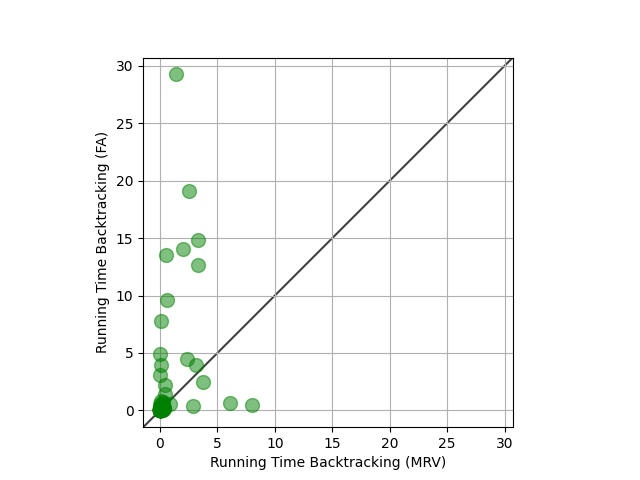
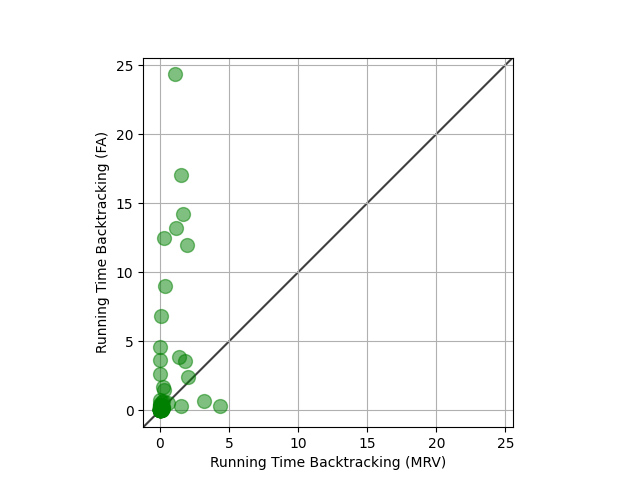
Project completed - Sudoku solved

diff --git a/a.py b/a.py
@@ -1,0 +1,17 @@
+MRV = [0.0059967041015625, 0.018075942993164062, 0.02026844024658203, 1.5325396060943604, 0.25562405586242676, 4.3149309158325195, 1.4929351806640625, 0.020865440368652344, 1.1535844802856445, 1.9811089038848877, 0.2930121421813965, 0.007530689239501953, 0.05863761901855469, 0.5441675186157227, 0.04373955726623535, 0.24484586715698242, 0.010750055313110352, 1.358062744140625, 0.002017498016357422, 0.02821040153503418, 1.8465073108673096, 0.003000497817993164, 0.030995845794677734, 0.16582846641540527, 0.02001500129699707, 0.15961265563964844, 0.12506341934204102, 3.21816086769104, 0.002003908157348633, 0.054151296615600586, 0.023325443267822266, 0.009005546569824219, 0.002996206283569336, 2.0435595512390137, 0.1365983486175537, 0.022999286651611328, 0.08068490028381348, 0.03733086585998535, 0.11173486709594727, 0.011000871658325195, 0.3287949562072754, 0.20433664321899414, 0.12449383735656738, 0.01637887954711914, 0.028994321823120117, 1.637953281402588, 0.04783010482788086, 0.0245513916015625, 0.19502997398376465, 0.028247833251953125, 0.006287336349487305, 0.18443608283996582, 0.005151033401489258, 0.009289264678955078, 0.018283367156982422, 0.007306814193725586, 0.062355756759643555, 0.02044820785522461, 0.017193317413330078, 0.0385441780090332, 0.07432866096496582, 0.023804903030395508, 0.005235910415649414, 0.09047079086303711, 0.0010001659393310547, 0.03782033920288086, 0.050763845443725586, 0.07835984230041504, 0.23698210716247559, 0.03472638130187988, 1.0730316638946533, 0.004068613052368164, 0.09406781196594238, 0.06867265701293945, 0.06554555892944336, 0.03578925132751465, 0.0319218635559082, 0.008168697357177734, 0.15343379974365234, 0.009288787841796875, 0.048110008239746094, 0.036217689514160156, 0.08052945137023926, 0.01952338218688965, 0.02312922477722168, 0.004999399185180664, 0.05209207534790039, 0.0020112991333007812, 0.035439252853393555, 0.007997274398803711, 0.005002498626708984, 0.003000497817993164, 0.014057636260986328, 0.005045413970947266, 0.060099124908447266]
+FA = [0.22427606582641602, 0.7488198280334473, 0.06833314895629883, 0.3034176826477051, 12.484516382217407, 0.3429131507873535, 17.03933072090149, 2.618745803833008, 13.232873678207397, 12.008521318435669, 1.4578542709350586, 0.1959235668182373, 0.08403992652893066, 0.5521113872528076, 6.845613479614258, 1.7047100067138672, 0.29906368255615234, 3.8588192462921143, 0.0029621124267578125, 0.00812077522277832, 3.5439441204071045, 0.01217198371887207, 0.21402621269226074, 0.6070783138275146, 0.003003358840942383, 0.29726243019104004, 0.09073519706726074, 0.6721150875091553, 0.11065912246704102, 0.023850202560424805, 0.008101940155029297, 0.023978233337402344, 0.002996206283569336, 2.3915786743164062, 0.1125795841217041, 0.4199342727661133, 0.2698395252227783, 0.03380155563354492, 0.3054544925689697, 0.015429019927978516, 9.042675495147705, 0.1788785457611084, 0.039755821228027344, 0.0051457881927490234, 0.020566225051879883, 14.188946723937988, 0.15358662605285645, 0.0712592601776123, 0.6515069007873535, 3.6770384311676025, 0.019372224807739258, 0.13968563079833984, 0.005110025405883789, 0.010993242263793945, 0.21190476417541504, 0.011010169982910156, 0.16349053382873535, 0.024921417236328125, 0.01825237274169922, 0.015176534652709961, 0.009000778198242188, 4.623605728149414, 0.03767251968383789, 0.23304224014282227, 0.0010004043579101562, 0.3811206817626953, 0.03243517875671387, 0.031456947326660156, 0.21706652641296387, 0.15163326263427734, 24.325195789337158, 0.05096006393432617, 0.14108943939208984, 0.03899502754211426, 0.04890036582946777, 0.08565974235534668, 0.013988733291625977, 0.14987516403198242, 0.028719186782836914, 0.02446746826171875, 0.09579992294311523, 0.12421488761901855, 0.3059990406036377, 0.050284624099731445, 0.021431446075439453, 0.0029947757720947266, 0.07017850875854492, 0.00995635986328125, 0.20702075958251953, 0.0010979175567626953, 0.03069305419921875, 0.008989810943603516, 0.048358917236328125, 0.4890761375427246, 0.06673240661621094]
+
+gr = 0
+eq = 0
+le = 0
+for i in range(95):
+    if MRV[i] < FA[i]:
+        le +=1
+    elif MRV[i] > FA[i]:
+        gr +=1
+    else:
+        eq +=1
+        print(MRV[i], FA[i])
+
+print('MRV > FA, MRV = FA, MRV < FA')
+print(gr, eq, le)

diff --git a/main.py b/main.py
@@ -451,7 +451,9 @@ with open('top95.txt', 'r') as file:
 with open('top95.txt', 'r') as file:
     running_time_first_available = main(file, FirstAvailable())
 
-
+print('MRV', running_time_mrv)
+print()
+print('FA', running_time_first_available)
 plotter = PlotResults()
 plotter.plot_results(running_time_mrv, running_time_first_available,
                      "Running Time Backtracking (MRV)",
